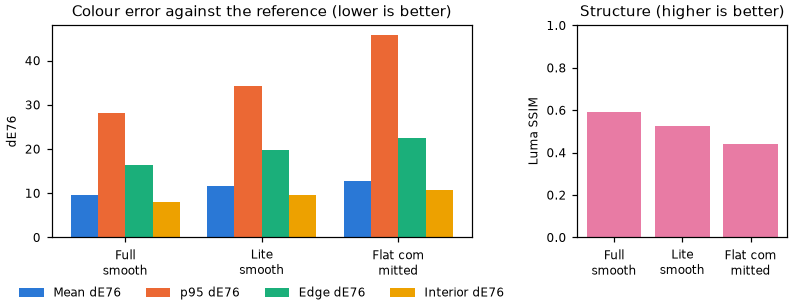
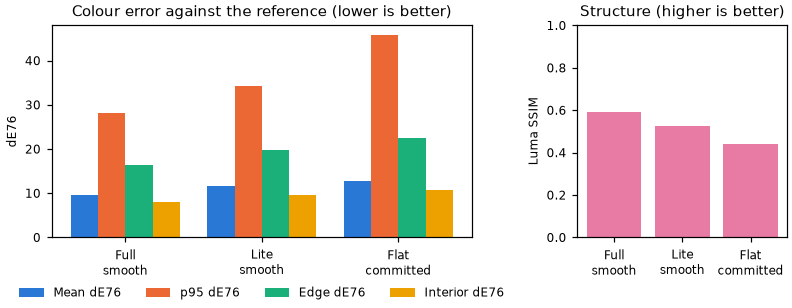
bake charts: whole-word labels, sampling axis from 0 with a kind legend; doc fixes (autana-d01s)

diff --git a/launcher/tools/render/bake_charts.py b/launcher/tools/render/bake_charts.py
@@ -12,6 +12,7 @@ import sys
 import textwrap
 
 import numpy as np
+from matplotlib.lines import Line2D
 
 sys.path.insert(0, str(pathlib.Path(__file__).resolve().parent))
 sys.path.insert(0, str(pathlib.Path(__file__).resolve().parents[1]))
@@ -22,7 +23,7 @@ DELTA_E = ("Mean dE76", "p95 dE76", "Edge dE76", "Interior dE76")
 SSIM = "Luma SSIM"
 PANEL = (3.6, 2.8)  # inches per panel
 BAR_SPAN = 0.8
-# Category labels wrap at this many characters so neighbours never overlap.
+# Category labels wrap between words past this many characters, so neighbours never overlap.
 LABEL_WRAP = 8
 # A sampling variant's kind is its label up to the first digit; the declared bake is its own kind.
 SAMPLING_KINDS = ("declared", "fixed", "min", "max", "area", "sky", "centroid")
@@ -49,7 +50,7 @@ def grouped_bars(axis, groups, series, values, colours, title, ylabel):
     for index, name in enumerate(series):
         offset = (index - (len(series) - 1) / 2) * width
         axis.bar(x + offset, values[name], width, label=name, color=colours[index])
-    axis.set_xticks(x, [textwrap.fill(group.replace(",", ""), LABEL_WRAP) for group in groups])
+    axis.set_xticks(x, [textwrap.fill(group.replace(",", ""), LABEL_WRAP, break_long_words=False) for group in groups])
     axis.set_ylim(bottom=0)
     axis.set_title(title, fontsize=TITLE_SIZE)
     axis.set_ylabel(ylabel, fontsize=LABEL_SIZE)
@@ -95,13 +96,18 @@ def sampling_chart(table, path):
     y = np.arange(len(variants))
     for axis, metric in zip(axes, ("Mean dE76", "p95 dE76")):
         values = [number(table[label][metric]) for label in variants]
-        axis.hlines(y, min(values), values, color=colours, alpha=0.35)
+        axis.hlines(y, 0, values, color=colours, alpha=0.35)
         axis.scatter(values, y, color=colours, zorder=3)
+        axis.set_xlim(left=0)
         axis.set_title(f"{metric} (lower is better)", fontsize=TITLE_SIZE)
         axis.tick_params(labelsize=LABEL_SIZE)
         axis.grid(axis="x", color=MUTED, alpha=0.2)
     axes[0].set_yticks(y, variants)
     axes[0].invert_yaxis()
+    kinds = [k for k in SAMPLING_KINDS if any(kind(label) == k for label in variants)]
+    handles = [Line2D([], [], marker="o", linestyle="none", color=SLOTS[SAMPLING_KINDS.index(k)], label=k)
+               for k in kinds]
+    fig.legend(handles=handles, fontsize=LABEL_SIZE, ncol=len(kinds), loc="outside lower center", frameon=False)
     save(fig, path)
 
 
@@ -109,7 +115,7 @@ def look_chart(table, path):
     """Each look's mean error against the physical reference and against its own."""
     looks = list(table)
     columns = {"against the physical reference": "Mean dE76, physical", "against its own reference": "Mean dE76, own"}
-    fig, axis = subplots(1, 1, (PANEL[0] * 1.6, PANEL[1]))
+    fig, axis = subplots(1, 1, (PANEL[0] * 1.6, PANEL[1] * 1.25))
     grouped_bars(axis, looks, list(columns), {name: [number(table[look][column]) for look in looks]
                                               for name, column in columns.items()},
                  (MUTED, SLOTS[0]), "Mean dE76 per look (lower is better)", "dE76")

diff --git a/docs/render/Bake-Quality.md b/docs/render/Bake-Quality.md
@@ -65,7 +65,7 @@ triangles and one colour per face both cost most at edges.
 </details>
 
 The flat bake's error, left to right: the reference, the bake, the ΔE heatmap
-and the reference's edge pixels (magenta). It sits at lit arch edges, shadow
+and the reference's edge pixels (magenta). The error sits at lit arch edges, shadow
 boundaries and the foreground drapery.
 
 ![Reference, flat bake, error heatmap and edge pixels](../images/render/bake-fidelity-sheet.png)
@@ -85,13 +85,14 @@ runtime work.
 
 | Label | Changes |
 |---|---|
+| `declared` | The committed flat bake's own settings, the "Flat, committed" row above |
 | `fixedN` | N samples on every face |
 | `minN`, `maxN` | The automatic count's lower or upper bound |
 | `areaX` | The automatic count's area per sample, times the median face area |
 | `skyN` | The sky light's ray count |
 | `centroid` | One sample at each face's centroid |
 
-![Mean and p95 error of each flat sampling variant, best first](../images/render/sponza-flat-sampling.png)
+![Mean and p95 error of each flat sampling variant from 0, best first, coloured by kind](../images/render/sponza-flat-sampling.png)
 
 <details>
 <summary>Every sampling variant</summary>
@@ -261,6 +262,8 @@ colour on the column beside it, and the lit ceiling.
 
 The bounce itself is checked in linear light by a floor beside a sunlit wall
 in [`test_r3d_path_bake.py`](../../launcher/tools/tests/test_r3d_path_bake.py).
+A Sponza bounce measurement needs the alpha-masked source and linear radiance,
+not encoded vertex colours.
 
 ### Indirect look
 
@@ -268,11 +271,12 @@ The scene's [`[indirect]` table](Scene-Files.md#indirect) sets `intensity`, a
 multiplier on bounced light, and `albedo_boost`, a multiplier on the
 reflectance bounces use. The reference reads it too, so each look is scored
 twice: against the physical reference (look and bake error together) and
-against its own (bake error alone).
+against its own (bake error alone). The sheet shows the physical reference
+above the bakes and each look's own reference below.
 
 ![Physical reference and each look's own, with the bakes and their error heatmaps](../images/render/bake-indirect-look.png)
 
-![Mean error of each look against the physical reference and its own](../images/render/sponza-indirect-look.png)
+![Mean error of each look against the physical reference and its own; direct light has no look of its own, so one bar](../images/render/sponza-indirect-look.png)
 
 <details>
 <summary>Look scores</summary>
